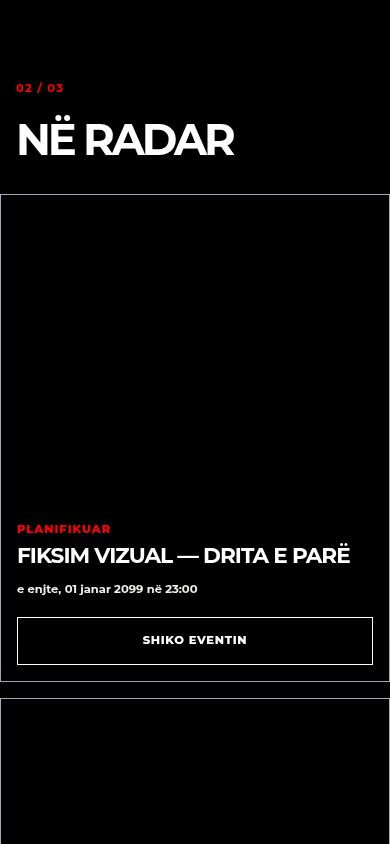
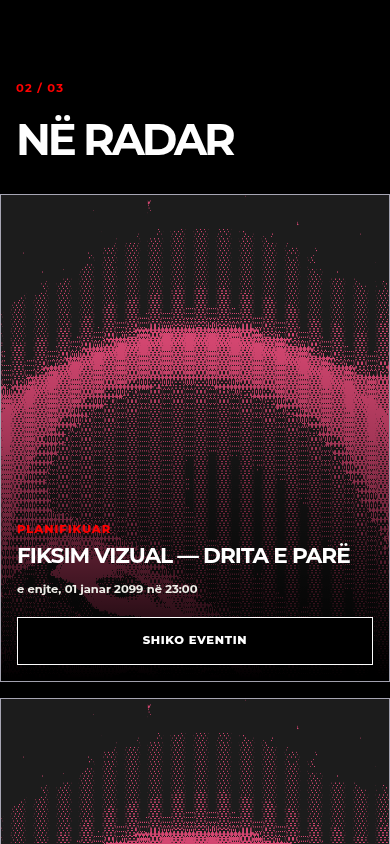
test: complete checkpoint 8 follow-up validation

diff --git a/docs/VALIDATION_REPORT.md b/docs/VALIDATION_REPORT.md
@@ -14,13 +14,16 @@ named exactly `postgres`, and rejects the result if any such process is not owne
 The no-JavaScript capture now waits for at least one deck poster and for every intercepted poster
 to report both `complete` and a non-zero `naturalWidth` before it can become review evidence.
 
-In this follow-up environment, `npm run check` passed with 0 Astro diagnostics and 34 unit tests.
-`npm run test:visual` passed its complete build prerequisite but could not start its 30 captures
-because `/usr/bin/google-chrome` is not installed; downloading the Playwright browser was also
-blocked by the environment's HTTP 403 proxy response. Consequently, this environment did not
-regenerate or validate the no-JavaScript PNG, and the prior 30-capture result below remains the
-latest completed visual run rather than a claimed follow-up pass. `npm run smoke:integrated-qa`
-could not start because Docker is unavailable in this environment. `git diff --check` passed.
+The follow-up was subsequently validated in a local Chrome- and Docker-capable environment.
+`npm run check` passed with 0 Astro diagnostics and 34 unit tests. `npm run test:visual` passed
+all 30 captures. The no-JavaScript screenshot was regenerated only after every intercepted deck
+poster had decoded successfully with a non-zero `naturalWidth`; manual review confirmed that the
+synthetic poster, event information, and event link are visibly rendered.
+`npm run smoke:integrated-qa` passed the complete source-stack verification, PostgreSQL
+process-ownership audit, matched PostgreSQL/media backup, isolated restoration of eight synthetic
+event records, restored gateway verification, container restrictions, and service health checks.
+`git diff --check` passed.
+
 
 ## Complete automated gates
 

diff --git a/docs/review/phase-2-integrated-qa/README.md b/docs/review/phase-2-integrated-qa/README.md
@@ -22,6 +22,7 @@ ignored `screenshots/` directory and the previously committed checkpoint 6 captu
 on 2026-09-11 found no page-level horizontal overflow, clipped primary content, overlapping
 controls, illegible event metadata, hidden focus, or hover-only access. The selected touch card
 uses a real labelled button and exposes a separate event link; the no-JavaScript layout keeps all
-event links visible. The 2026-09-11 review follow-up environment did not have Chrome and could not
-download it through the environment proxy, so the no-JavaScript PNG still requires regeneration
-by the next Chrome-capable visual run; it is not claimed as refreshed evidence here.
+event links visible. A subsequent Chrome-capable local run regenerated the no-JavaScript PNG after
+verifying that every intercepted synthetic poster had decoded successfully with a non-zero
+`naturalWidth`. Manual review confirmed that the poster, event information, and event link are
+visibly rendered, so the updated PNG is valid checkpoint 8 review evidence.
